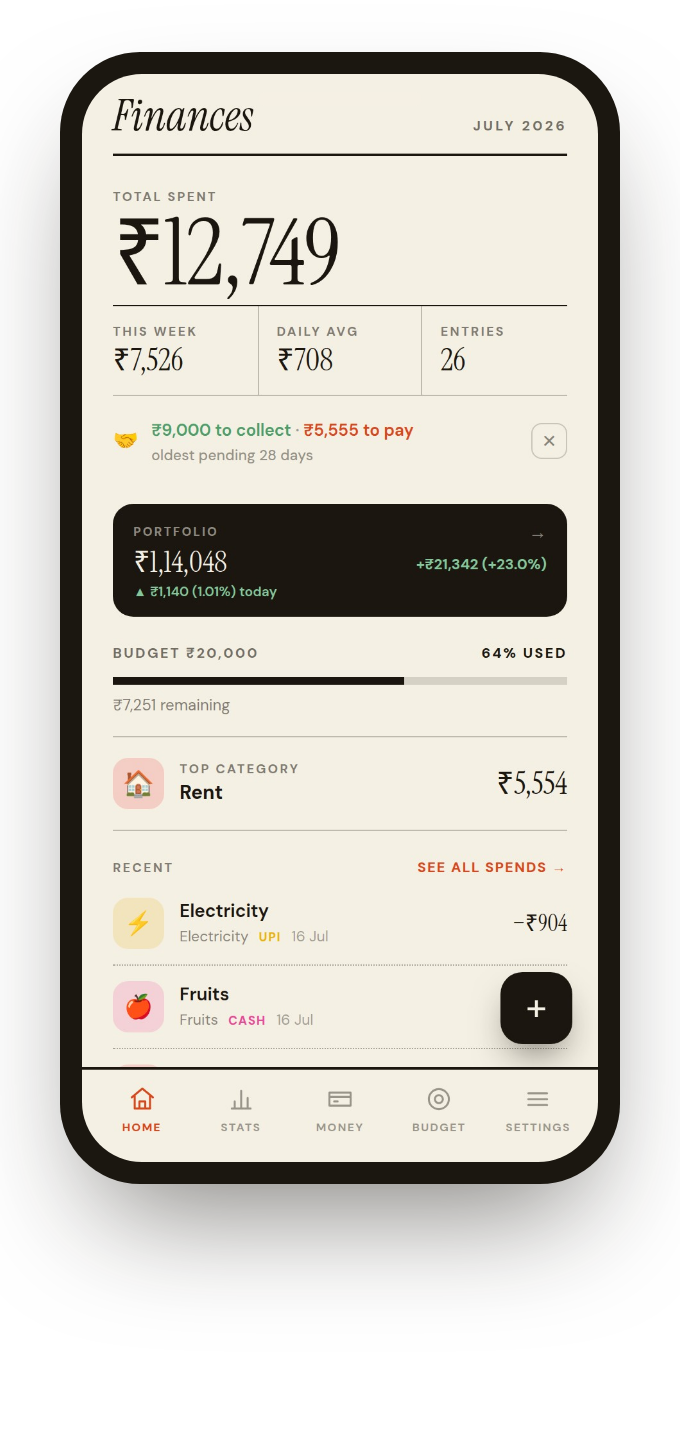
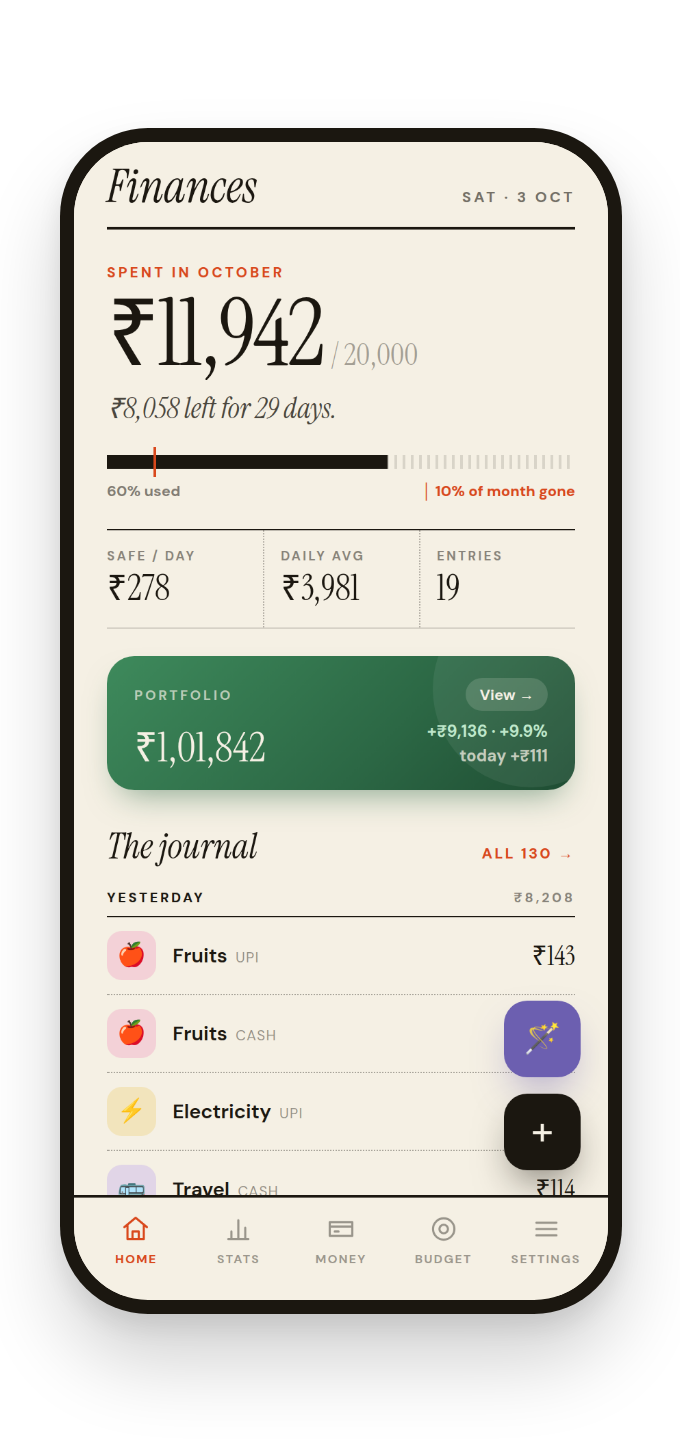
docs: new Home in README and tour

diff --git a/CLAUDE.md b/CLAUDE.md
@@ -89,7 +89,7 @@ Same rule as the chat: **figures on screen come from `context`, never from the m
 
 **Persistence (`src/services/analysisStore.js`):** one `settings` key, `stockAnalyses` → `{ [symbol]: { latest, history } }` (no DB bump). `latest` is the full report plus a slim `meta` (price, position, source counts) — the raw peer/driver price series are deliberately not stored. It's shown for **7 days** (`REPORT_TTL_MS`), then the card falls back to the Analyse button with "Last analysed …". `history` is the **track record** ("Past calls"): `{ at, price, score, verdict, headline }`, newest first, capped at 24, and a same-day refresh replaces that day's entry. The card compares each call's price with today's; calls under a day old show "today" instead of a move.
 
-`scripts/` holds dev-only Playwright probes: `probe-analysis.mjs <SYMBOL> [name]` prints the full assembled context (no AI), `probe-full.mjs <SYMBOL>` also calls the Worker and prints the raw reply, `shot-analysis.mjs <out.png>` screenshots the rendered report with a stubbed model reply, and `shot-detail.mjs <full.png> [tour.jpg] [frame.png]` captures the holding screen (Reliance, live data) plus the welcome-tour slide and the phone-framed `docs/frames/detail.png`. Run them from the repo root with `npm run dev` up (playwright must resolve from the project's `node_modules`).
+`scripts/` holds dev-only Playwright probes: `probe-analysis.mjs <SYMBOL> [name]` prints the full assembled context (no AI), `probe-full.mjs <SYMBOL>` also calls the Worker and prints the raw reply, `shot-analysis.mjs <out.png>` screenshots the rendered report with a stubbed model reply, and `shot-detail.mjs <full.png> [tour.jpg] [frame.png]` captures the holding screen (Reliance, live data) plus the welcome-tour slide and the phone-framed `docs/frames/detail.png`; `shot-home.mjs <tour.jpg> <frame.png>` does the same for Home with the sample data. Run them from the repo root with `npm run dev` up (playwright must resolve from the project's `node_modules`).
 
 ### Net worth (`src/utils/networth.js`)
 `computeNetWorth({holdings, prices, assets, udhaar, metalRates})` is the single source of truth. Assets are dynamic-valued: metals by live rate × grams × fineness, FDs by quarterly compounding, loans by amortization — see `assetValue`. A daily net-worth snapshot is written to `networth_snaps` by an effect in `AppContext` (one row per calendar day, keyed by date); the Money tab's trend chart reads these. Snapshotting is skipped while demo data is loaded so it can't pollute real history.
